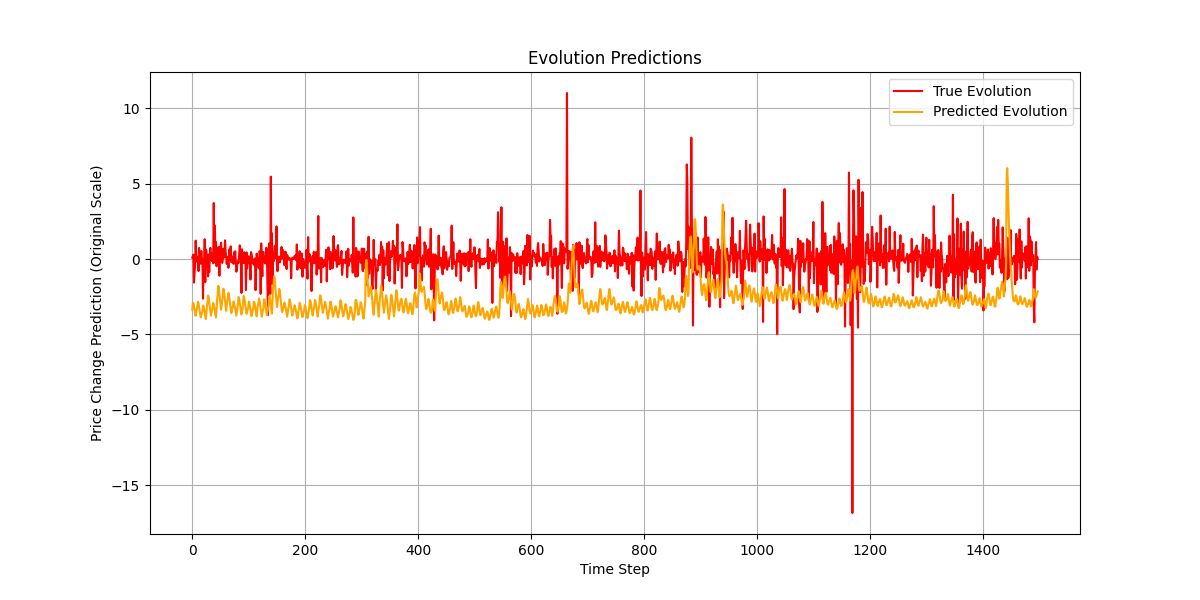
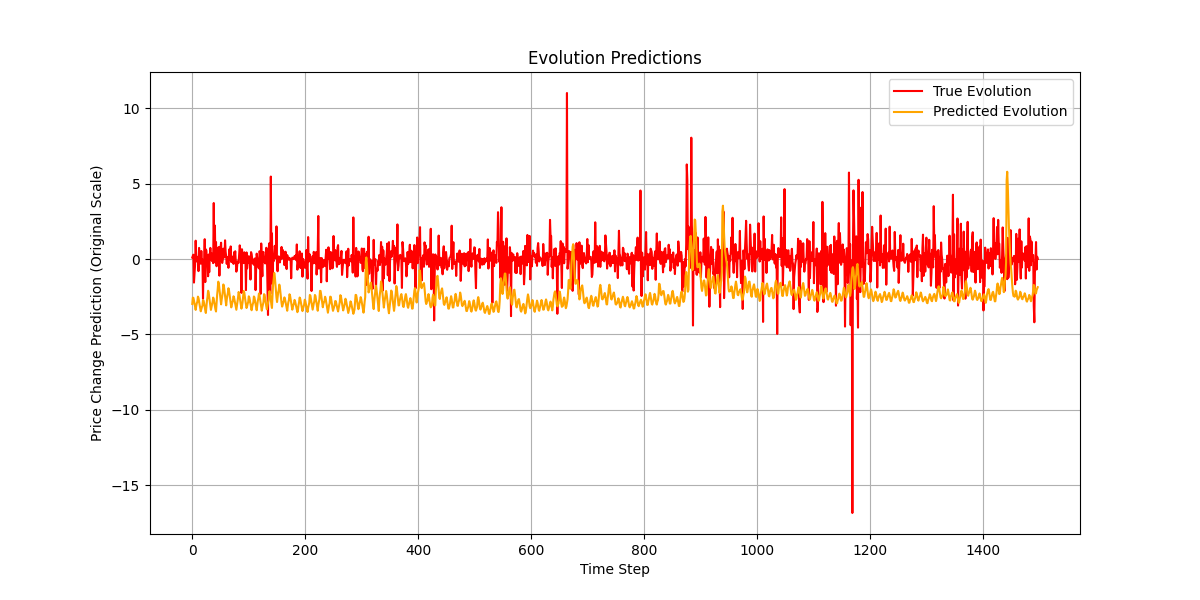
predict closing price instead of evolution

Changed region(s): [[0.1542, 0.45, 0.8633, 0.54]]

diff --git a/main.py b/main.py
@@ -1,5 +1,5 @@
 from config import Config
-from data.data_utils import prepare_data, create_test_loader, prepare_training_validation_data
+from data.data_utils import prepare_data, create_test_loader, training_loaders
 from models.model import LSTMModel
 from models.train import run_training
 from models.evaluate import simulate_investment
@@ -26,7 +26,7 @@ if __name__ == "__main__":
     config = Config()
 
     # Prepare data
-    df, dataset_scaled, sc = prepare_data(symbol=config.symbol, 
+    df, dataset_scaled, train_sc = prepare_data(symbol=config.symbol, 
                                           start_date=config.start_date, 
                                           end_date=config.end_date,
                                           timeframe=config.timeframe, 
@@ -35,7 +35,7 @@ if __name__ == "__main__":
                                           is_training=True)
 
     # Prepare training and validation data
-    train_loader, valid_loader = prepare_training_validation_data(dataset_scaled, config.backcandles)
+    train_loader, valid_loader = training_loaders(dataset_scaled, config.backcandles)
 
     # Initialize model, optimizer, and scheduler
     lstm_model = LSTMModel(embedding_dim=5, 
@@ -60,16 +60,20 @@ if __name__ == "__main__":
     # Plot training metrics
     plot_training_metrics(history)
 
-    # Create test loader and simulate investment
-    test_loader, df_test, dataset_scaled_test = create_test_loader(
-        symbol = config.symbol, 
-        start_date = config.test_start_date, 
-        end_date = config.test_end_date,
-        timeframe = config.timeframe, 
-        backcandles= config.backcandles, 
-        sc = sc, 
-        is_filter=False, 
-        limit= 9 * 30 * 12
+     # Prepare test data
+    test_df, test_dataset_scaled, _ = prepare_data(symbol=config.symbol, 
+                                          start_date=config.test_start_date, 
+                                          end_date=config.test_end_date,
+                                          timeframe=config.timeframe, 
+                                          is_filter=False, 
+                                          limit= 1 * 305 * 12, 
+                                          is_training=False,
+                                          sc = train_sc)
+
+    # Create test loader
+    test_loader = create_test_loader(
+        dataset_scaled=test_dataset_scaled,
+        backcandles=config.backcandles,
     )
 
     # Run simulation
@@ -77,7 +81,7 @@ if __name__ == "__main__":
             dataloader = test_loader, 
             capital = config.initial_capital, 
             shares_owned = config.shares_owned, 
-            scaler = sc,
+            scaler = train_sc,
             buy_threshold = 0.01,
             sell_threshold = -0.01
             )

diff --git a/models/evaluate.py b/models/evaluate.py
@@ -14,33 +14,21 @@ def simulate_investment(model, dataloader, capital, shares_owned, scaler, buy_th
     bar = tqdm(enumerate(dataloader), total=len(dataloader))
     for step, (features, targets) in bar:
         # Predicted change in normalized price
-        predicted_evolution = model(features).detach().numpy().flatten()
-        true_evolution = targets.numpy().flatten()
+        predicted_price = model(features).detach().numpy().flatten()
+        true_price = targets.numpy().flatten()
 
         # Dummy arrays for inverse transform
-        dummy_array_pred = np.zeros((1, 6))  # Create a dummy array with the same number of features used during training
-        dummy_array_pred[:, -1] = predicted_evolution  # Assign the predicted evolution to the corresponding position
+        dummy_array_pred = np.zeros((1, 5))  # Create a dummy array with the same number of features used during training
+        dummy_array_pred[:, 3] = predicted_price  # Assign the predicted evolution to the corresponding position
         
         dummy_array_target = np.zeros((1, 6))
-        dummy_array_target[:, -1] = true_evolution
+        dummy_array_target[:, 3] = true_price
 
         # Inverse transform to get original scale
-        predicted_original = scaler.inverse_transform(dummy_array_pred)[:, -1]  # Use only the interval_evolution column
-        true_original = scaler.inverse_transform(dummy_array_target)[:, -1]
+        predicted_price_original = scaler.inverse_transform(dummy_array_pred)[:, 3]  # Use only the interval_evolution column
+        true_price_original = scaler.inverse_transform(dummy_array_target)[:, 3]
 
-        # Get current 'close' price in normalized form
-        current_price_norm = features[:, -1, 3].numpy()  # Get current 'close' price (normalized)
-        current_price_norm = current_price_norm[0]  # Extract the scalar value from the array
-
-        # Create a dummy array for inverse transform of current price
-        dummy_array_price = np.zeros((1, 6))  # Create a dummy array to inverse transform the current price
-        dummy_array_price[:, 3] = current_price_norm  # Assign the current 'close' price to the corresponding position
-
-        # Inverse transform to get current price in original scale
-        current_price = scaler.inverse_transform(dummy_array_price)[:, 3]
-
-        # Extract the scalar value from the transformed array
-        current_price = current_price[0]
+        predicted_evolution = predicted_price_original[0] - current_price
 
         # Simulate investment based on model prediction
         if predicted_original >= buy_threshold and capital >= current_price:

diff --git a/data/data_utils.py b/data/data_utils.py
@@ -27,20 +27,19 @@ def get_historical_data(symbol, timeframe, start_date, end_date, limit=10000):
 
 def prepare_data(symbol, start_date, end_date, timeframe, is_filter=False, limit=4000, is_training=True, sc=None):
     df = get_historical_data(symbol, timeframe, start_date, end_date, limit)
-    df['interval_evolution'] = df['close'].diff().shift(-1).fillna(0)
     
     # Scale data
     if is_training:
         sc = MinMaxScaler(feature_range=(0, 1))
-        sc.fit(df[['open', 'high', 'low', 'close', 'volume', 'interval_evolution']])
-    dataset_scaled = sc.transform(df[['open', 'high', 'low', 'close', 'volume', 'interval_evolution']])
-    dataset_scaled = pd.DataFrame(dataset_scaled, columns=['open', 'high', 'low', 'close', 'volume', 'interval_evolution'])
+        sc.fit(df[['open', 'high', 'low', 'close', 'volume']])
+    dataset_scaled = sc.transform(df[['open', 'high', 'low', 'close', 'volume']])
+    dataset_scaled = pd.DataFrame(dataset_scaled, columns=['open', 'high', 'low', 'close', 'volume'])
     return df, dataset_scaled, sc
 
-def create_test_loader(symbol, start_date, end_date, timeframe, backcandles, sc, is_filter, limit=1000):
-    df, dataset_scaled, _ = prepare_data(symbol, start_date, end_date, timeframe, is_filter, limit, is_training=False, sc=sc)
+def create_test_loader(dataset_scaled, backcandles):
     X_dataset = dataset_scaled[['open', 'high', 'low', 'close', 'volume']]
-    y_dataset = dataset_scaled[['interval_evolution']].values
+    y_dataset = dataset_scaled[['close']].values
+
     # Sliding window feature set
     X, y = [], []
     for i in range(backcandles, len(X_dataset) - 1):
@@ -48,11 +47,11 @@ def create_test_loader(symbol, start_date, end_date, timeframe, backcandles, sc,
         X.append(np.array(window))
     X, y = np.array(X).transpose(0, 2, 1), np.array(y_dataset[1 + backcandles:, -1]).reshape(-1, 1)
     test_dataset = TensorDataset(torch.tensor(X, dtype=torch.float32), torch.tensor(y, dtype=torch.float32))
-    return DataLoader(test_dataset, batch_size=1, shuffle=False), df, dataset_scaled
+    return DataLoader(test_dataset, batch_size=1, shuffle=False)
 
-def prepare_training_validation_data(dataset_scaled, backcandles, train_ratio=0.98):
+def training_loaders(dataset_scaled, backcandles, train_ratio=0.94):
     X_dataset = dataset_scaled[['open', 'high', 'low', 'close', 'volume']]
-    y_dataset = dataset_scaled[['interval_evolution']].values
+    y_dataset = dataset_scaled[['close']].values
 
     # Create sliding window feature set
     X = []
